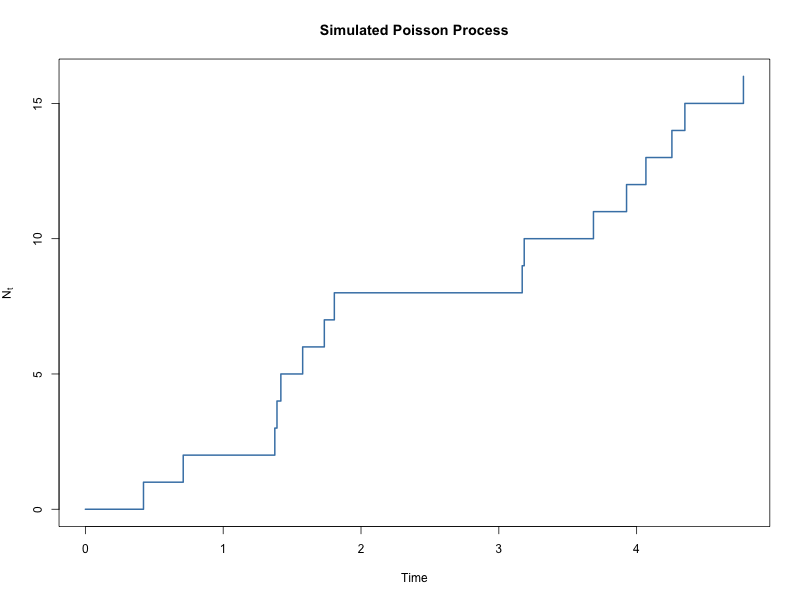
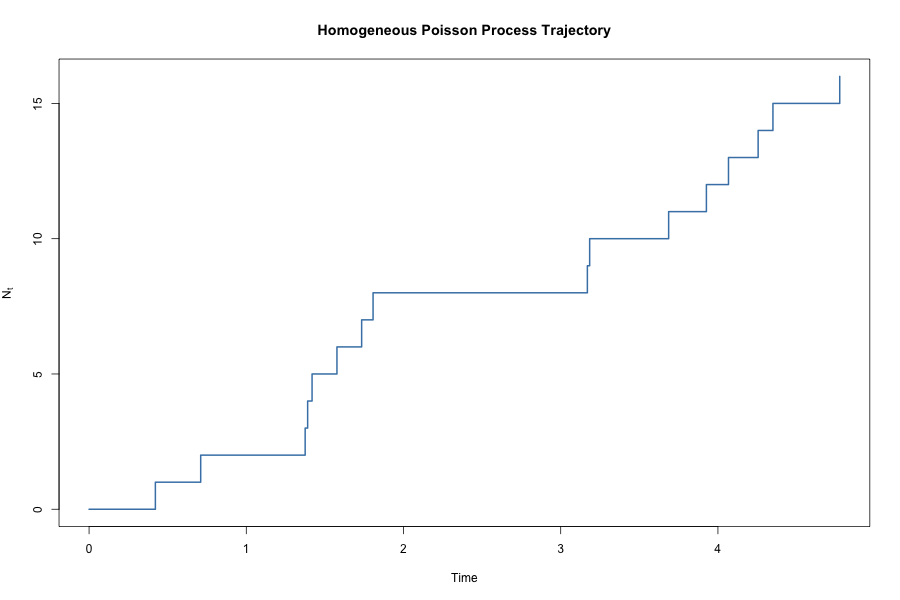
add experiments poisson trajectory and monte carlo

diff --git a/README.md b/README.md
@@ -1,65 +1,123 @@
-# Poisson-Processes
+# Simulation and Statistical Properties of Poisson Processes
 
-## Simulation and Statistical Properties of Poisson Processes
+## Overview
 
-### Overview
+This repository explores simulation, approximation, and statistical validation of Poisson processes using computational stochastic modelling in R.
 
-This project explores simulation and statistical properties of homogeneous Poisson processes using R.
-
-The work investigates:
-- stochastic event arrivals,
+The project investigates:
+- homogeneous Poisson processes,
 - exponential waiting times,
-- empirical convergence of mean and variance,
-- trajectory behaviour,
-- discrete approximations to continuous-time jump processes.
+- Monte Carlo validation,
+- discrete-time approximations,
+- inhomogeneous Poisson processes,
+- thinning algorithms,
+- stochastic event dynamics.
 
-Applications to quantitative finance and stochastic modelling are also discussed.
+Applications to quantitative finance, queueing systems, and stochastic simulation are discussed throughout.
 
 ---
 
-### Motivation
+# Experiment 1 — Simulating Homogeneous Poisson Trajectories
 
-Poisson processes are foundational stochastic models for random event arrivals.
+## Motivation
+
+Poisson processes are fundamental stochastic models for random event arrivals.
 
 They appear in:
 - queueing systems,
 - communication networks,
 - reliability modelling,
-- market order arrivals,
-- jump-diffusion models,
-- market microstructure in quantitative finance.
+- transaction arrivals,
+- market microstructure,
+- jump-diffusion models in quantitative finance.
 
-The objective of this project is to simulate Poisson trajectories and empirically verify key theoretical properties.
-
----
-
-### Theory
-
-For a Poisson counting process:
-
-N_t ~ Poisson(lambda * t)
-
-The waiting times between jumps are exponentially distributed.
-
-Key theoretical properties:
-- E[N_t] = lambda * t
-- Var(N_t) = lambda * t
+The objective of this experiment is to simulate sample trajectories of a homogeneous Poisson process and investigate its core statistical properties.
 
 ---
 
-### Simulated Trajectory
+## Theory
+
+A homogeneous Poisson process with intensity λ satisfies:
+
+- independent increments,
+- exponentially distributed waiting times,
+- stationary jump behaviour.
+
+For a fixed time t:
+
+- E[N(t)] = λt
+- Var(N(t)] = λt
+
+The waiting times between jumps follow an exponential distribution with mean:
+
+- E[T] = 1/λ
+
+---
+
+## Simulation Methodology
+
+The simulation is constructed directly from exponential waiting times.
+
+At each step:
+1. Generate an exponential waiting time.
+2. Advance the clock.
+3. Increase the counting process by one jump.
+4. Repeat until the terminal time horizon is reached.
+
+This produces the characteristic staircase trajectory of the Poisson counting process.
+
+---
+
+## Simulated Trajectory
 
 ![Poisson Trajectory](plots/poisson_trajectory.png)
 
 ---
 
-### Financial Connection
+## Waiting Time Analysis
 
-In quantitative finance, Poisson processes are used to model:
+The empirical waiting times are compared against the theoretical exponential waiting-time distribution.
+
+---
+
+# Experiment 2 — Monte Carlo Validation of Poisson Moments
+
+## Objective
+
+Monte Carlo simulation was used to empirically validate theoretical properties of the Poisson distribution.
+
+The experiment investigates:
+- empirical convergence of the mean,
+- empirical convergence of the variance,
+- variability across trajectories,
+- distributional behaviour of N(t).
+
+---
+
+## Monte Carlo Distribution of N(t)
+
+![Poisson Histogram](plots/poisson_histogram.png)
+
+---
+
+## Observations
+
+The empirical mean and variance converge closely toward the theoretical values predicted by the Poisson model.
+
+This illustrates:
+- stochastic variability across trajectories,
+- convergence of empirical moments,
+- consistency of the simulation procedure.
+---
+
+## Financial Connection
+
+Poisson processes are foundational in quantitative finance for modelling:
 - market order arrivals,
+- transaction flow,
 - jump events,
-- trade execution dynamics,
-- high-frequency transaction arrivals,
-- jump-diffusion asset price models.
+- high-frequency event timing,
+- stochastic jump-diffusion systems.
 
-They form an important foundation for stochastic modelling and market microstructure research.
+They also form the basis for more advanced stochastic point-process models used in market microstructure research.
+